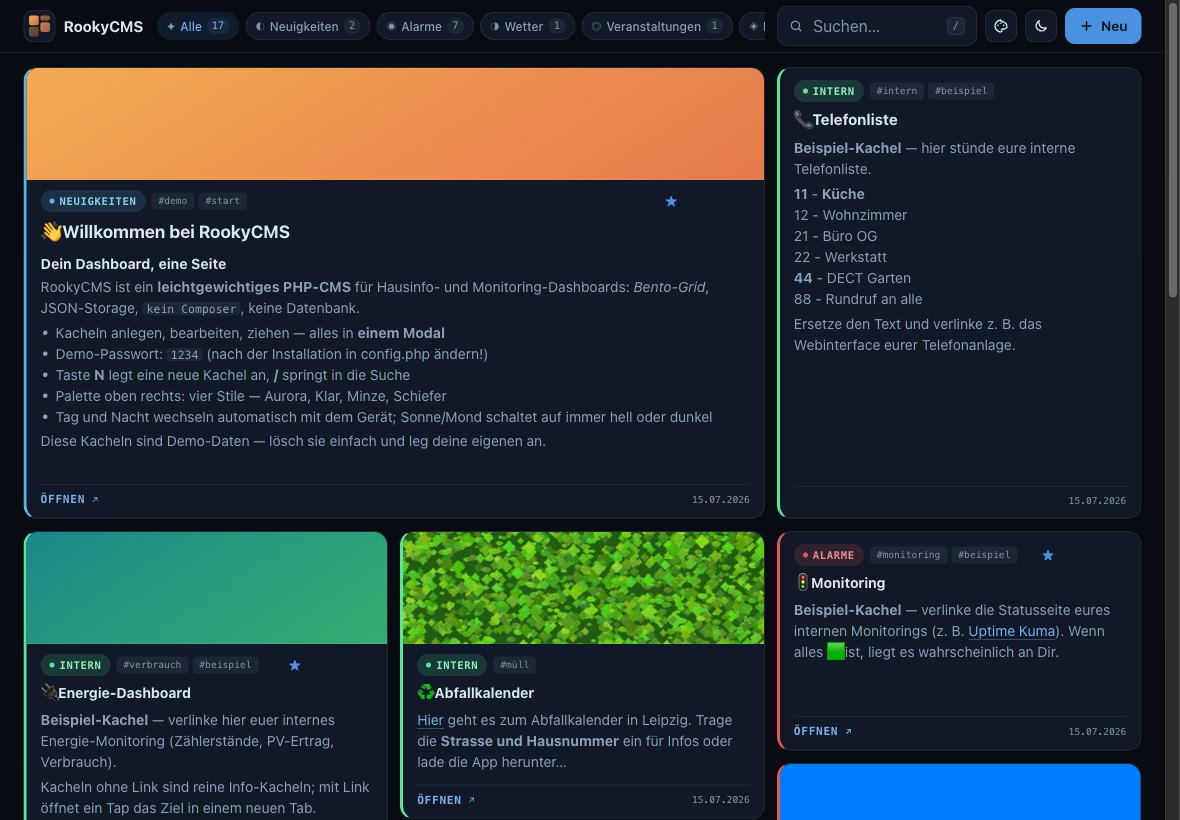
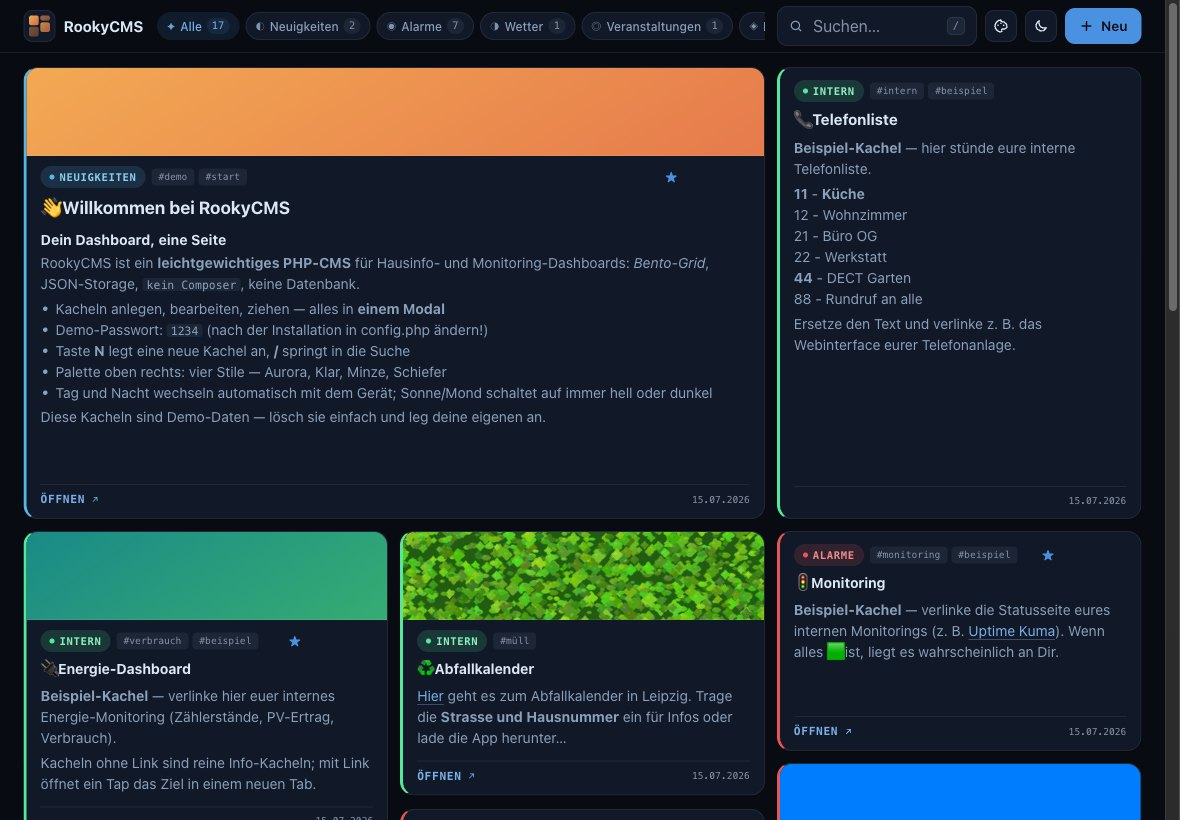
1.3.0: Bildband der leichten Stile auf 88 px, Fußzeilen-Links ohne Umbruch
Vollfarb-Bilder als Kategorie-Band wirkten mit 112 px zu wuchtig; der
Kaffee-Link brach am Smartphone mitten im Link um.

diff --git a/public/css/styles.css b/public/css/styles.css
@@ -380,7 +380,7 @@
     position: relative;
     inset: auto;
     flex-shrink: 0;
-    height: 112px;
+    height: 88px;   /* Vollfarb-Bilder als Kategorie-Band sollen nicht erschlagen */
     margin: -12px -14px 2px;
     opacity: 1;
     filter: none;
